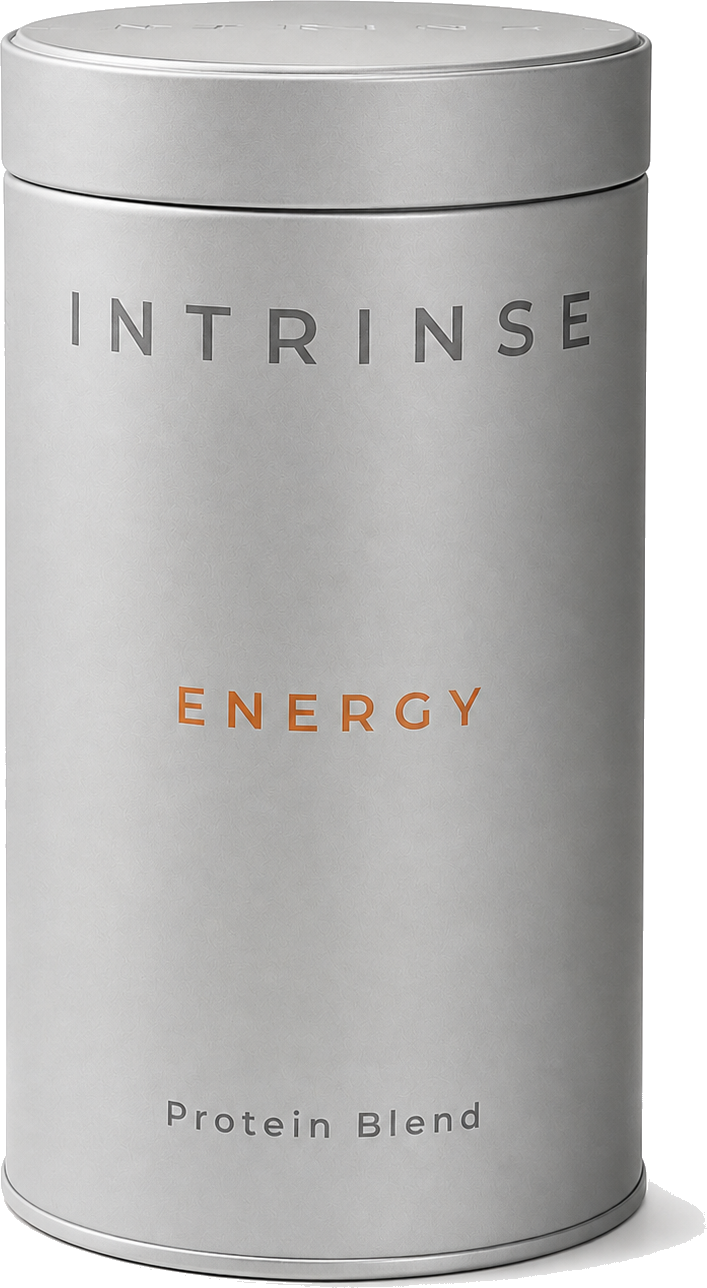
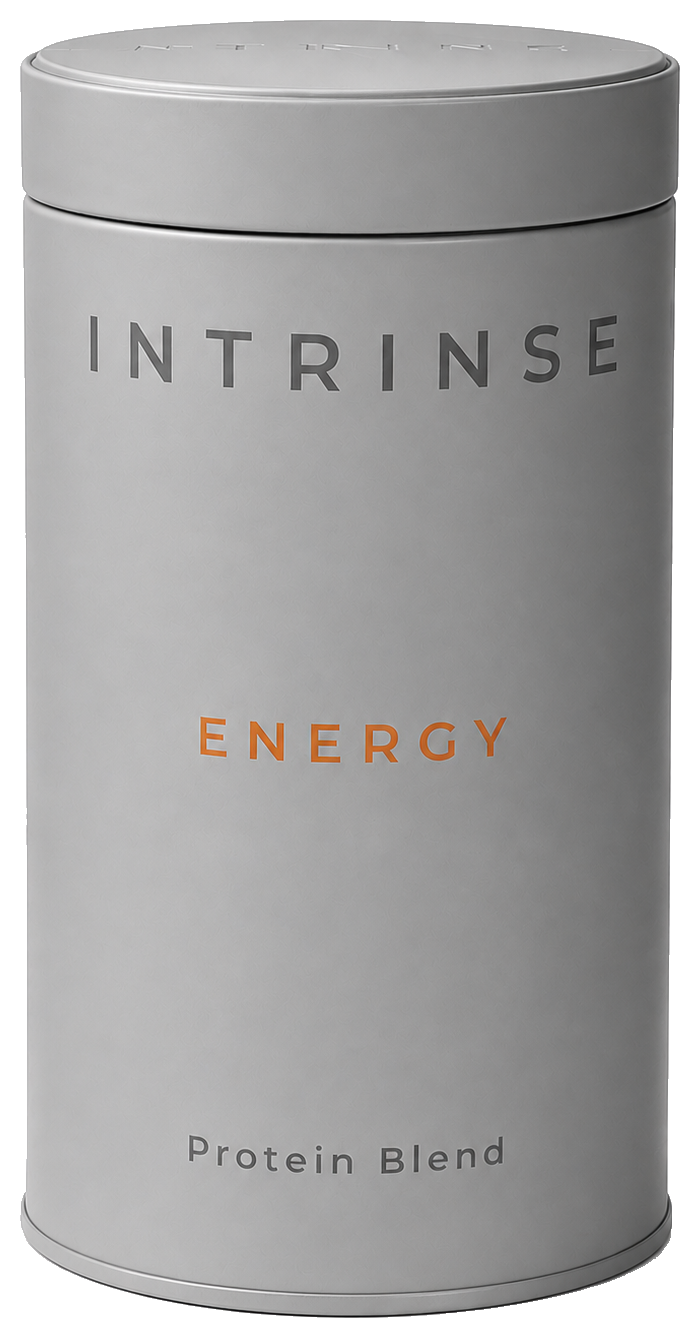
Replace ENERGY product canister image with new photo, rebuild shadow in CSS
Cut out the new can photo (background removed via contour tracing
along the rim, since a flat color threshold either left shadow
residue or ate into the can's own highlights). The original photo's
cast shadow was not kept - it was tied to that photo's specific
lighting - and is instead rebuilt as a soft radial contact shadow in
the section background (.p-visual::before), offset toward the
bottom-right to match the original's implied light direction.

Replaces the old filter:drop-shadow on the img, which traced the
image's own silhouette and looked angular/artificial. Verified on
both desktop and mobile - the shadow initially overflowed past the
mobile viewport edge and got clipped, fixed by keeping the shadow box
fully contained and shifting it right via the gradient's own position
instead of extending the box beyond the container.

diff --git a/energy.html b/energy.html
@@ -85,6 +85,12 @@ nav{position:fixed;top:0;left:0;right:0;z-index:100;background:rgba(217,218,219,
 .p-name{font-family:var(--f2);font-size:clamp(46px,7.4vw,92px);font-weight:600;letter-spacing:.35em;line-height:1;color:#af6243}
 .p-tag{font-size:clamp(19px,2.4vw,27px);font-weight:300;line-height:1.32;margin-top:8px}
 .p-desc{font-size:14.5px;color:var(--ink-soft);line-height:1.9;margin-top:26px;max-width:34ch}
+
+.p-visual{position:relative;max-width:320px;margin:0 auto}
+.p-visual img{position:relative;z-index:1;display:block}
+.p-visual::before{content:"";position:absolute;left:0;right:0;top:91%;height:18%;
+  background:radial-gradient(ellipse 55% 100% at 64% 30%,rgba(28,28,26,.34) 0%,rgba(28,28,26,.17) 45%,transparent 75%);
+  filter:blur(14px);pointer-events:none;z-index:0}
 .p-size{font-size:14px;color:var(--ink-soft)}
 .p-price{font-size:clamp(31px,4.1vw,48px);font-weight:300;margin-top:6px;letter-spacing:-.01em}
 .p-vat{font-size:11.5px;color:var(--ink-soft);margin-top:6px}
@@ -167,7 +173,9 @@ footer::before{content:"";position:absolute;top:-80px;left:0;right:0;height:160p
 
         <div class="p-ship sr sr-d3"><span>—</span><span>Kostenfreier Versand • 1–3 Werktage</span></div>
       </div>
-      <img class="sr sr-d2" src="img/canister-alt.png" alt="INTRINSE ENERGY Dose" width="707" height="1288" style="filter:drop-shadow(0 16px 24px rgba(0,0,0,.1));width:100%;max-width:320px;height:auto;margin:0 auto">
+      <div class="p-visual sr sr-d2">
+        <img src="img/canister-alt.png" alt="INTRINSE ENERGY Dose" width="700" height="1338" style="width:100%;height:auto">
+      </div>
     </div>
     <div class="p-legal">Nahrungsergänzungsmittel. Kein Ersatz für eine ausgewogene Ernährung und gesunde Lebensweise. Pflanzliches Proteinpulver (Erbse &amp; Reis) mit Guarana und L-Theanin. 475 g. Vegan.</div>
   </div>
